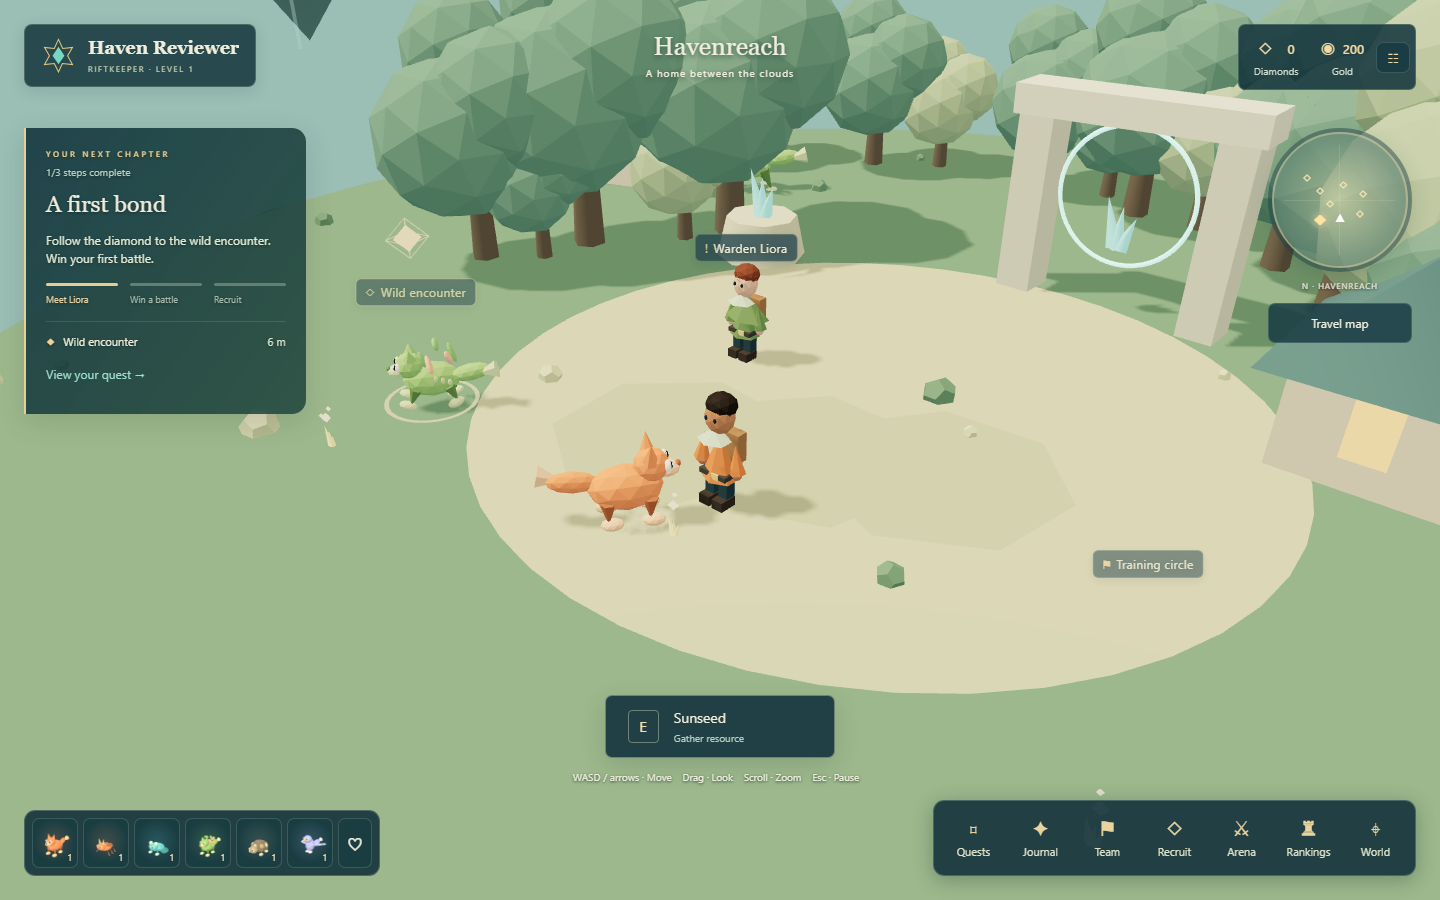
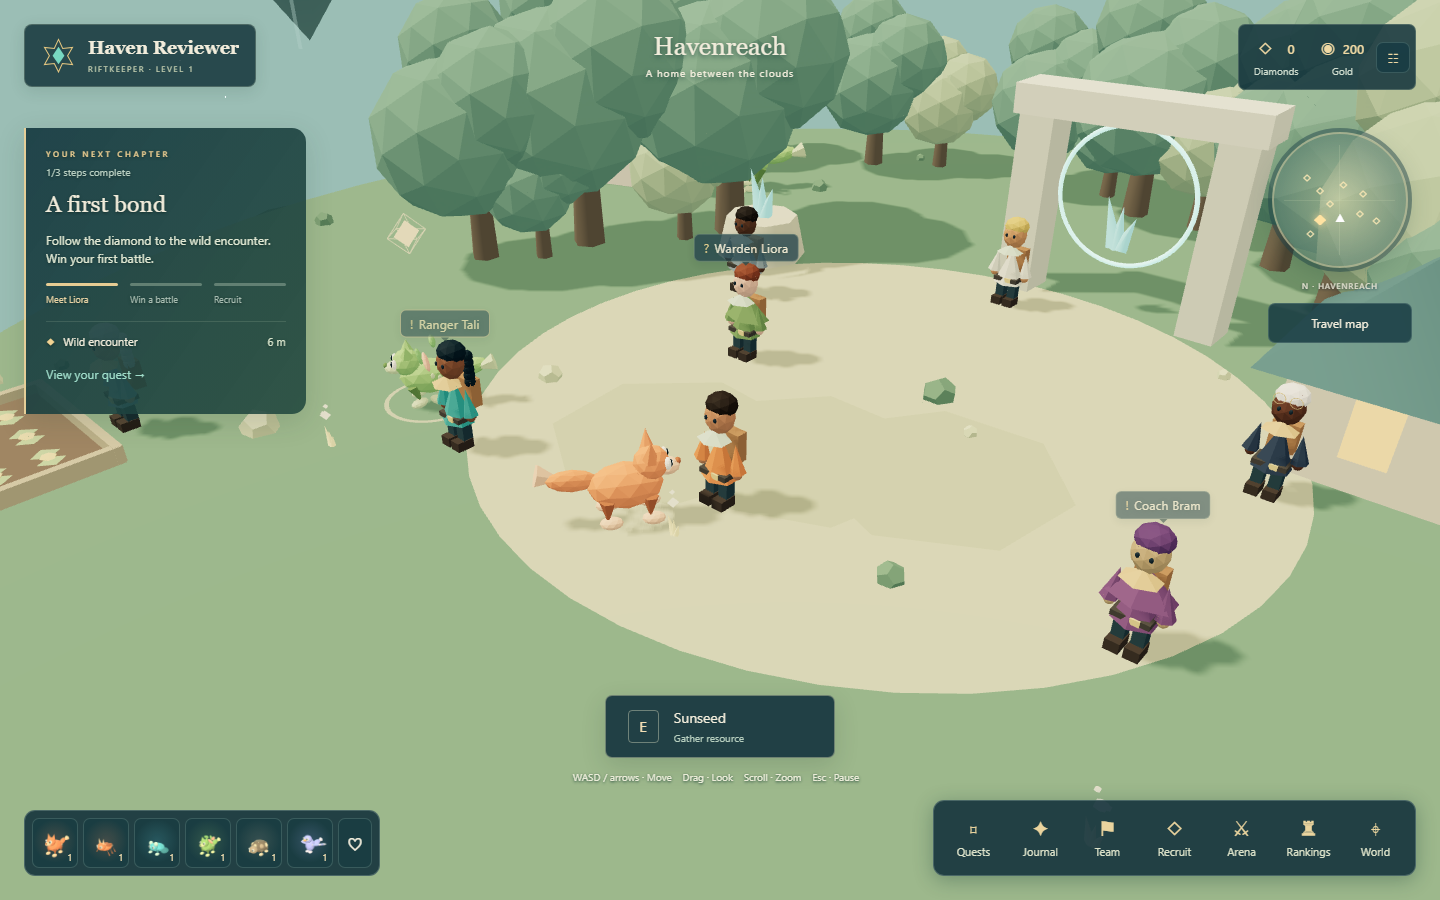
docs: document village adventures and verified release checks

diff --git a/README.md b/README.md
@@ -12,6 +12,8 @@ Mythoveya is a locally playable, browser-based 3D creature-collection RPG. Its w
 
 - **60 Wildbound:** ten species in each rarity from E to S, eight elements, twelve body families, 180 actions, and 60 passives.
 - **Eight keepers:** choose a recognizable character and change your appearance later without losing progress.
+- **Eight village friends:** meet Liora, Sella, Bram, Kael, Oren, Tali, Pip, and Wren. Explore 24 conversation topics, complete 16 missions, and unlock their daily help.
+- **Make yourself at home:** trade supplies at Pip's rotating market, grow Sunseed, craft treats, nurture friendship, name companions, and dress your following friend with a ribbon or bell.
 - **Your own six:** three front slots and three rear slots, with drag-and-drop or click-to-place formation editing.
 - **Know where to go:** a chapter tracker, objective distance, and matching gold waypoints in the world and minimap guide your first journey. Nearby labels stay readable, while resource sparkles keep the scenery clear.
 - **Explore on a smaller screen:** the quest tracker, map, wallet, team strip, and complete menu adapt to narrow screens. Drag the movement joystick and tap the interaction prompt to explore with touch.
@@ -64,10 +66,10 @@ Open **http://127.0.0.1:2567/** for the compiled build. This command serves the 
 1. Select **Begin your journey**, enter your keeper name, and choose an avatar.
 2. Choose **Emberfox**, **Ripplefin**, or **Thornhare** as your starter.
 3. Walk toward **Warden Liora** and press **E**. Accept Cindermite, Puddlepip, Mossprig, Pebblit, and Zippinch to complete your first six.
-4. Approach the **Wild encounter** marker. Use basic attacks freely; skills cost 2 energy and ultimates cost 5. Front companions protect the rear slot behind them. PvE **Auto** and **Fast** controls are optional.
+4. Approach the **Wild encounter** marker to meet **Ranger Tali**. Choose **Services → Begin a wild encounter**. Basic attacks are free; skills cost 2 energy and ultimates cost 5. Front companions protect the rear slot behind them. PvE **Auto** and **Fast** controls are optional.
 5. After winning, open **Quests** and claim your 600-diamond tutorial reward. Visit **Recruit**, make a bond, and open **Team** to save your formation.
 
-Training costs 50 gold and stores creature XP even when the account-level cap prevents an immediate level. Three species shards purchase a 2% stat upgrade, up to five upgrades. Tactical Arena ignores these shard bonuses. Stars mark favorites; there is no selling or creature deletion.
+Training costs 50 gold and stores creature XP even when the account-level cap prevents an immediate level. Three species shards purchase a 2% stat upgrade, up to five upgrades. Tactical Arena ignores these shard bonuses. Stars mark favorites; companions cannot be sold or deleted.
 
 Win more encounters to open the canyon and hollow. Each region guardian has an enhanced roster model; first-time guardian victories grant a configured A-tier companion. Boss variants are not extra collectible species.
 
@@ -85,7 +87,7 @@ Win more encounters to open the canyon and hollow. Each region guardian has an e
 
 Use **Sound & settings** on the title screen or the settings button in the world. Master, Music, Sound effects, Ambience, and Creature voices each have their own slider. Mute, reduced motion, camera shake, and graphics quality are saved in the browser. Audio starts after a deliberate click; use **Play sound test** to resume a suspended browser audio context. Background audio suspends when the tab is hidden.
 
-Low quality reduces decorative scenery and particles. Quality changes take full effect on the next scene entry. Desktop keyboard-and-mouse play is supported; touch movement controls are not included.
+Low quality reduces decorative scenery and particles. Quality changes take full effect on the next scene entry. On touch screens, drag the movement joystick and tap the interaction prompt. Desktop keyboard-and-mouse play remains the most thoroughly tested way to battle.
 
 ## Play against another keeper
 
@@ -103,6 +105,25 @@ Each PvP decision allows 20 seconds after the shared presentation window. A time
 Two local sessions demonstrate real multiplayer. Cross-internet play requires a reachable backend and a separate production hosting/account design. This project does not deploy a public service.
 
 ## Recruitment and daily adventures
+
+Open **Quests → People & missions** or **Esc → People of the reaches** to meet the village. Each character has conversations, a two-mission story, and useful services. Complete both missions to unlock that villager's daily gift. Select **Track this story** to add a village objective to your world tracker.
+
+![Meet the eight villagers and follow their stories](docs/screenshots/village.png)
+
+| Villager | Services |
+| --- | --- |
+| Warden Liora | Your first six companions, story quests, and travel |
+| Keeper Sella | Recruitment, party formation, and companion nicknames |
+| Coach Bram | Training, combat guidance, and daily computer sparring |
+| Arena Master Kael | Human arena battles, three rating tiers, and a weekly guardian bounty |
+| Archivist Oren | The complete creature journal and collection milestones |
+| Ranger Tali | Wild encounters, habitats, and gathering guidance |
+| Pip the Trader | Buy and sell supplies; equip a cosmetic ribbon or bell |
+| Gardener Wren | Plant Sunseed, harvest crops, craft treats, and feed companions |
+
+Your first garden kit contains two Sunseed. Plant one, wait **two real minutes**, and harvest three; growth continues while you are away. Two Sunseed and 10 Gold make a treat. Feeding gives 30 creature XP and 10 friendship, up to 100 friendship. Friendship and accessories do not change combat stats. Switching accessories returns the old item to your bag.
+
+Market stock and helper gifts refresh at **00:00 UTC**. Win a practice battle to claim Bram's daily 40 Gold and 10 Diamonds. Defeat a region guardian to claim Kael's weekly 70 Gold and 120 Diamonds; the bounty refreshes Monday at 00:00 UTC. Normal guardian rewards still apply.
 
 A single bond costs 100 diamonds; ten cost 1,000 and require confirmation. Base rarity rates are E 30%, D 30%, C 22%, B 12%, A 5%, and S 1%, with equal selection among the ten species in each tier.
 

diff --git a/PROGRESS.md b/PROGRESS.md
@@ -8,7 +8,7 @@ The village backend now includes eight named characters, 24 conversation topics,
 
 Eight focused village tests passed: additive save migration, ordered and replay-safe rewards, daily stock and transaction rollback, durable garden timestamps, crafting/care/accessory ownership, battle-gated bounties, villager content, and integration with gathering, training, and travel. The village browser journey passed buying/selling, two helper unlocks, daily gifts, naming, feeding, equipped 3D accessories, reload persistence, mobile layout, and a real two-minute planting/harvest/crafting cycle. All eight world characters and the market/garden geometry were checked in the renderer. The services are accessible through **Quests → People & missions**, the pause menu, and nearby villagers.
 
-The first-session journey and two isolated human arena clients passed. The responsive HUD check passed after correcting position updates when resuming the paused world. The model/audio gallery and all ten paused mythic effects also passed. Desktop directory, market, helper, and mobile garden screenshots were inspected. The backend milestone is committed as `1153ea3`; final build and regression results are recorded below.
+The first-session journey and two isolated human arena clients passed. The responsive HUD check passed after correcting position updates when resuming the paused world. The model/audio gallery and all ten paused mythic effects also passed. Desktop directory, market, helper, and mobile garden screenshots were inspected. Milestones: backend `1153ea3`, playable village interface `6bded0c`. Final production build, all 30 gameplay/network tests, compiled smoke check, and dependency audit passed on September 30, 2026.
 
 ### Phase 1 verification record
 
@@ -33,11 +33,11 @@ The initial workspace was empty. The complete specification was read before impl
 ## Verification record
 
 - TypeScript and production build passed. The large client bundle warning remains tracked.
-- The latest gameplay/network suite passed **19 tests across four files**: content, economy replay safety, signature mechanics, a complete ranked human match, rejected turns, reconnect, immutable formations, once-only ratings, and persistence after server restart.
-- Browser checks passed the complete first journey (including edited formation persistence and the 3D recruitment stage), two isolated human arena clients, all 60 unique model portraits, twelve model families, eight keepers, and bounded audio playback.
+- The latest gameplay/network suite passed **30 tests across six files**: content, economy replay safety, signature mechanics, quest navigation, village saves/services, a complete ranked human match, rejected turns, reconnect, immutable formations, once-only ratings, and persistence after server restart.
+- Six browser scenarios passed across the regression runs: the complete first journey, two isolated human arena clients, all 60 unique model portraits/twelve families/eight keepers/bounded audio, ten mythic effects, responsive desktop/touch exploration, and the village market/garden/care journey.
 - Gallery coverage is split into model/audio and mythic-effect scenarios. The strengthened mythic check passed for **all ten S-tier species**, asserting visible geometry in the renderer at a fixed paused impact phase. The resulting captures were visually inspected.
 - Compiled-build smoke checks passed startup, local assets, guest progression, and human arena connection.
-- Compiled title, exploration, and journal layouts passed at **1280 x 720, 1440 x 900, and 1920 x 1080**, with no page errors or external asset requests. Visual fixtures also captured all three adventure-region landmarks without changing player saves.
+- The baseline compiled title, exploration, and journal layouts passed at **1280 x 720, 1440 x 900, and 1920 x 1080**, with no page errors or external asset requests. The current exploration HUD additionally passed seven viewport sizes and an emulated touch-landscape check. Village services were checked on desktop and at 390 x 844. Physical-device testing remains incomplete.
 - The dependency audit reported **zero vulnerabilities**.
 
 Screenshots were captured and inspected for title, exploration, battle, recruitment, journal, twelve families, eight keepers, and ten mythic previews. Browser gameplay recordings are under ignored `test-results/`. Playback and mixer limits were checked programmatically; subjective listening review has not been performed.
@@ -74,3 +74,5 @@ Install browser tooling once with `npx playwright install chromium`. Browser tes
 ## Next work
 
 Remaining work includes longer authored region stories, anatomical and animation refinement, subjective listening review, broader balance playtesting, and performance tuning. The current compact procedural presentation is a playable first version, not a claim that every production-polish requirement is finished.
+
+The later improvement brief still has unimplemented features: evolution, day/night and weather, additional gatherables and potions, autonomous helper abilities, an exclusive rotating weekly boss, expanded guided onboarding, text-size/colorblind settings, sprint/camera-reset controls, and an in-game manual backup flow. Combat and currency replacements require a separate design decision; existing working rules and server-owned progress have been preserved. See [KNOWN_ISSUES.md](KNOWN_ISSUES.md) for the complete boundary.

diff --git a/KNOWN_ISSUES.md b/KNOWN_ISSUES.md
@@ -3,7 +3,7 @@
 ## Presentation
 
 - The 60 species have distinct procedural recipes and complete gameplay mappings, but some anatomical details are stylized approximations. They are not sixty individually sculpted, production-finished character assets. Further silhouette and material work would improve resemblance to every authored description.
-- Regions share a compact walkable island layout, with distinct canyon mesas/arch, icy pond/crystal ridge, meadow flowers/waterfall, and village buildings. Larger terrain variation, animated village life, and longer region stories remain future work.
+- Regions share a compact walkable island layout, with distinct canyon mesas/arch, icy pond/crystal ridge, meadow flowers/waterfall, and village buildings. Eight villagers now animate at service stations, with a market stall and growing garden. Service layouts repeat across regions; larger terrain variation, villager schedules, and longer regional stories remain future work.
 - Creature family rigs support the requested states. Recruitment now has a staged 3D shrine entrance for every species; species-specific choreography, greet/victory responses, and keeper gestures remain simple.
 - The battle effect system is bounded and includes ten distinct mythic recipes. Delayed outcomes are authoritative and telegraphed, but their presentation is attached to the round transition rather than a separate cinematic sequence. Further support-skill choreography would make multi-target healing and protection clearer.
 - Music and voices are original Web Audio synthesis. Playback, settings and voice limits are checked programmatically; a subjective headphone/speaker listening pass has not been performed. Musical mixing and voice personality should be refined through listening before describing the sound as finished.
@@ -14,7 +14,9 @@
 - Guest tokens are local development authentication. There is no account recovery, public hosting, global matchmaking population, chat, trading, or shared exploration world.
 - Finished matches, progress and currencies are durable. Active matches remain in memory and are canceled if the server restarts, without competitive rating changes.
 - A wild bond is offered after eligible victories at a fixed displayed 80% chance. There is no mid-battle capture or remaining-HP-dependent bonding model yet.
-- Quests teach the core loop with concise text and a tracker. There is no branching dialogue system or fully authored 15–30 minute narrative campaign.
+- Villagers offer 24 selectable conversation topics and 16 persistent missions. Dialogue choices reveal authored replies but do not change story outcomes. A longer branching campaign, evolution, weather/day-night cycles, expanded gathering materials, and guided help overlays remain future work.
+- Village helpers provide daily gifts. Autonomous harvesting, encounter-rate bonuses, purchasable abilities, craftable potions, and dusk-only tracking are not implemented. The weekly challenge rewards victories over existing region guardians; it does not yet introduce a rotating exclusive boss.
+- The existing six-creature teams, eight elements, three actions, currency names, and server-owned saves remain intact. The brief's alternative 3v3 rules, five elements, four moves, renamed currencies, and manual local-storage imports have not replaced them.
 - The first version needs wider balance testing, especially high-rarity status combinations and long-term recruitment progression. Automated rules tests establish behavior, not competitive balance.
 
-See [PROGRESS.md](PROGRESS.md) for the exact automated and visual verification completed. The next useful pass is listening review, individual species/animation refinement, and more varied region geography rather than adding another menu or currency.
+See [PROGRESS.md](PROGRESS.md) for the exact automated and visual verification completed, and [the upgrade review](docs/UPGRADE_REVIEW.md) for proposed changes that affect existing combat and save rules.

diff --git a/docs/UPGRADE_REVIEW.md b/docs/UPGRADE_REVIEW.md
@@ -17,7 +17,7 @@ Phase 1 addresses orientation and usability before adding more destinations. The
 | Currency clarity | Names displayed with quantities; hover, keyboard-focus, and touch explanations of earning and spending | `apps/client/src/WorldHUD.tsx` |
 | Small screens | Compact quest and minimap, complete seven-entry menu, six-companion strip, drag-to-walk joystick, tappable interaction prompt | `apps/client/src/WorldHUD.tsx`, `world-hud.css`, `Scene.tsx` |
 
-The implementation is in the linked source project, rather than an additional disconnected code sample. No profile schema migration is needed.
+The implementation is in the linked source project. Phase 1 required no profile migration; Phase 2 adds village state to existing profiles without replacing their saved progression.
 
 ## Verification
 
@@ -36,7 +36,15 @@ npm run build
 
 The supplied brief ends with: “Start with Phase 1, then wait for my confirmation before Phase 2.” Phase 1 was completed and checked; the subsequent instruction to continue authorized work on Phase 2.
 
-The next substantial addition is a data-driven cast of Sella, Bram, Kael, Oren, Tali, Pip, and Wren, with conversations, missions, and useful location services. Later phases can add gathering inventories, crafting, friendship, weather, and a fuller field guide.
+Phase 2 adds a data-driven cast of Liora, Sella, Bram, Kael, Oren, Tali, Pip, and Wren, with 24 selectable conversation topics, 16 ordered missions, and daily helper rewards. Their services include a rotating market, server-timed garden, crafting, friendship, nicknames, cosmetic accessories, daily sparring, and weekly guardian bounties. These compatible additions preserve the existing six-companion combat system. Weather, evolution, larger regions, and fuller guided tutorials remain later work.
+
+The roster and mission definitions are in `packages/shared/town.ts`; authoritative transactions are in `apps/server/town-game.ts`. `TownPanels.tsx` provides conversations, missions, and services, while `TownScenery.tsx` provides the market, garden, and companion accessories. `tests/town.test.ts` checks save and economy rules; `tests/browser/town.spec.ts` follows the actual market, helper, naming, feeding, reload, planting, harvest, and crafting journey.
+
+To review this phase, open **Quests → People & missions**. Each character has Conversation, Missions, and Services tabs. Plant a Sunseed with Wren, browse Pip's stock while it grows, then return after two minutes to harvest. Claim both Pip or Wren mission rewards to unlock a daily helper. Run `npx vitest run tests/town.test.ts` and `npx playwright test tests/browser/town.spec.ts` to reproduce the focused checks.
+
+Verified captures: [village directory](screenshots/village.png), [completed missions and daily helper](screenshots/helpers.png), and [mobile garden](screenshots/garden-mobile.png).
+
+This implementation adapts some proposed services to the established rules: helpers give daily supplies, Bram teaches the existing actions through dialogue and practice, and Kael offers a weekly bounty for current guardians. Autonomous helpers, ability purchases, potions, dusk-only tracking, and a rotating exclusive boss remain incomplete. No companion-release feature was added; renaming and party management are available.
 
 Three later proposals require an explicit design choice because they change existing systems:
 

diff --git a/docs/PRESENTATION_GUIDE.md b/docs/PRESENTATION_GUIDE.md
@@ -38,6 +38,8 @@ Sources stop after finite envelopes, disconnect on completion, and share a 40-vo
 
 ## Settings and review
 
+Village characters reuse the eight keeper rigs with idle motion and small nearby speech labels. Their directory uses lightweight illustrated initials; only the selected conversation opens a 3D portrait. The market and garden use local procedural geometry, and garden growth follows the saved planting timestamp. Equipped ribbons and bells attach to the following companion's animated rig. The exploration renderer pauses behind panels and resumes its movement timers when the panel closes.
+
 Reduced motion suppresses decorative animation and camera effects without affecting combat. Camera shake is optional and restrained. Graphics presets cap pixel ratio and reduce vegetation and effect density while keeping targeting information.
 
 The development gallery is read-only: choose a species or avatar, rotate the model, pause, change its animation state, preview skills, and test the three vocalizations. Browser checks capture representative families, all keepers, and all mythic effects. The precise automated/visual/listening evidence is recorded in `PROGRESS.md`; browser playback checks do not establish subjective audio quality.

diff --git a/ASSETS.md b/ASSETS.md
@@ -6,6 +6,7 @@
 - `apps/client/src/Scene.tsx`: original floating-island scenery, buildings, ruins, vegetation, crystals, world markers, and battle presentation.
 - `apps/client/src/UltimateEffects.tsx`: ten original mythic effect compositions.
 - `apps/client/src/RegionScenery.tsx`: original region landmarks, flowers, ice, rock formations, and village buildings.
+- `apps/client/src/TownScenery.tsx`: original striped market stall, timed garden sprouts, companion ribbon, and bell. Villager portraits and idle characters reuse the eight keeper models.
 - `apps/client/src/RecruitmentStage.tsx`: original bond-shrine stage, entrance motion, and rarity accents using the actual creature models.
 - `apps/client/public/emblem.svg`: original six-point bond emblem.
 - Collection portraits are rendered from those same Three.js creature models by one on-demand renderer, then cached for the session. They are not hotlinked pictures or separate concept art.
